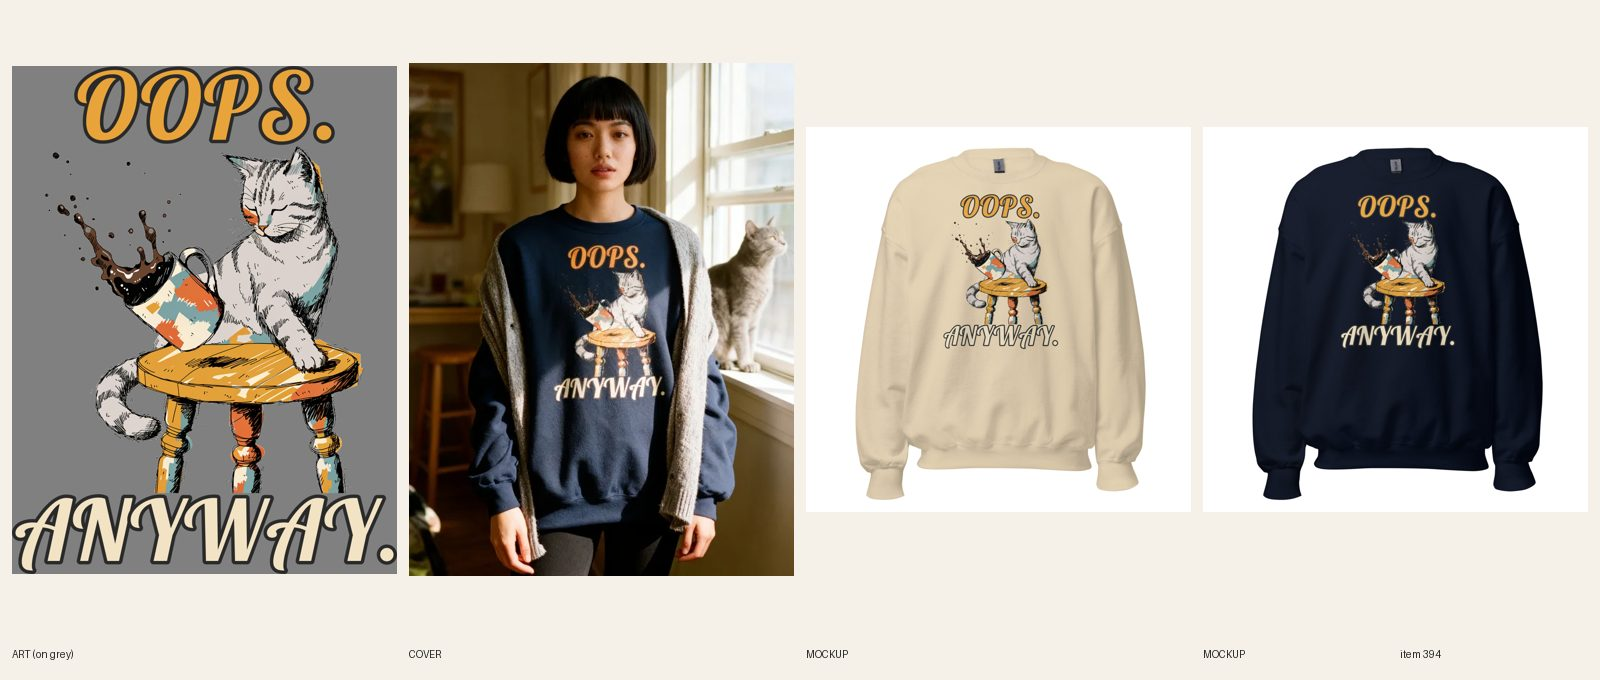
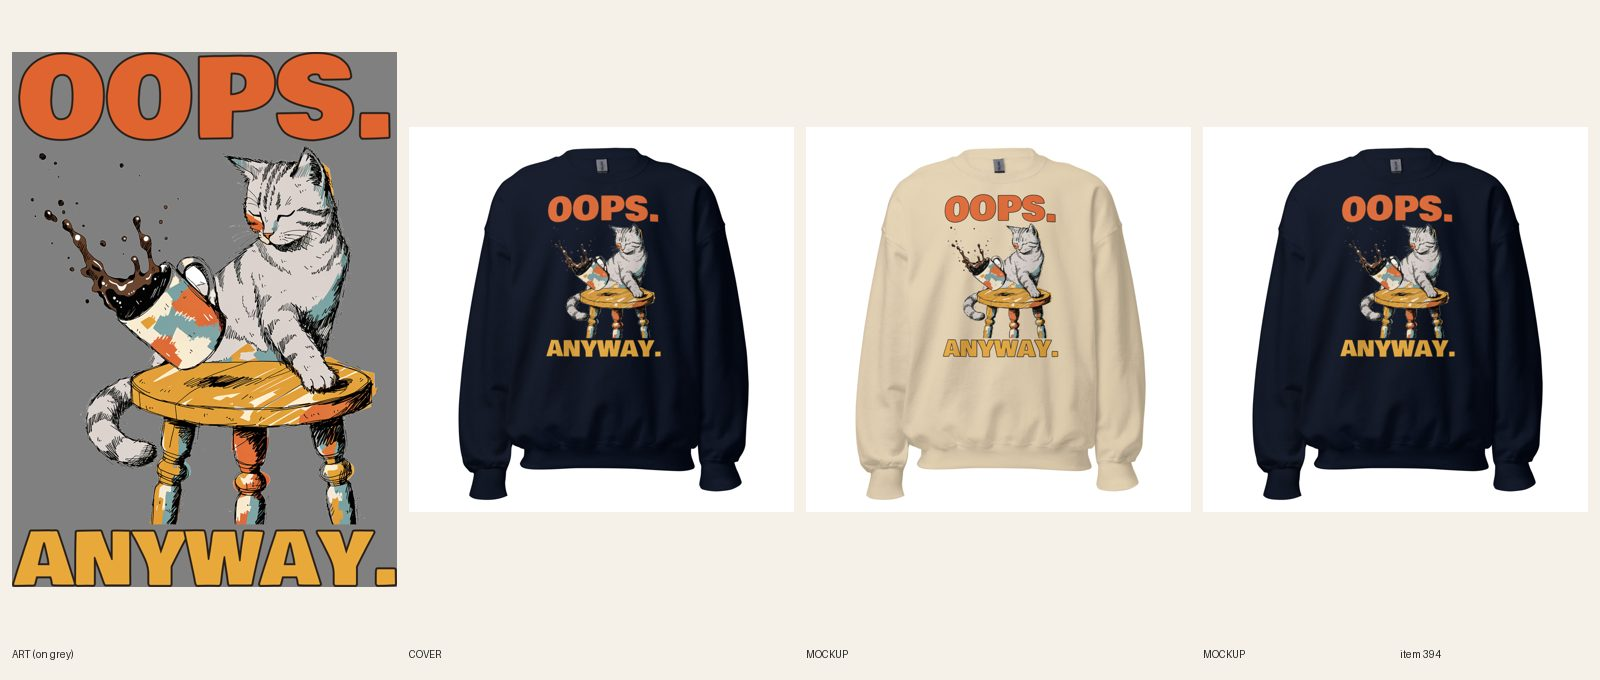
[C] review 394 Women's Cat Oops Anyway crewneck (type redo)
Claude-Session: https://claude.ai/code/session_019cA4EagCV6whQkJ5rZeVVv

Changed region(s): [[0.0, 0.0618, 0.5, 0.8647], [0.8125, 0.2779, 0.9062, 0.525], [0.5625, 0.2779, 0.6562, 0.525]]

diff --git a/docs/intake-log.md b/docs/intake-log.md
@@ -1,7 +1,7 @@
 RUNNING lane A since 2026-10-19 15:34 UTC
 RUNNING lane B since 2026-10-19 15:35 UTC
-RUNNING lane C since 2026-10-19 15:27 UTC
 2026-10-19 16:20 UTC — [D] Director run (RESUMED). Inbox: nothing new needing action (RESUME 15:00 and cropped-hoodie notes already in rulebook/reset file). LIVE 6 (cap): #577, #624, #245, #275, #273, #328, all quality-reset redos already ACTIVE, audit --handle PASS 0 warn each, side-by-side verdicts in their pipeline files; 4 model covers added to retired-covers.json (R6.11); #275 added to /guides/white-elephant-gifts/. Reviewed: #599 APPROVED, held for next run (cap); #385 REDO (R3.7.8/reset type bar: thin brush lettering). The other 37 at REVIEW were approved in earlier runs and wait for the 6-per-run cap (next: #599, then add-ons). Twin REDOs #244 #274 #276 #560 #548 told to port the Sam-approved sample prints (fal $0). Briefs: #695 NYE crewneck twin (new years sweatshirt 480/46, Dec 5,400), #696 dance mom crewneck twin (320/48), #697 Outdoorsy in Theory cropped hoodie (cropped pullover 4,400/34), #698 Slept Outside. Have Notes. camp hoodie (2,400/38), #699 nana hoodie twin (grandma hoodie 320/48). READY A 9 / B 12 / C 12: lane A is 3 short because every measured Christmas/New Year garment phrase I checked this run (about 40) is claimed or unmeasured. Monday R9/R10 check: no new Google/Merchant Center/OpenAI change since the backtrack doc; R8.7 FAQ line updated (FAQ rich results fully deprecated). Digest not due (midday sent 12:20). Lock released.
+2026-10-19 15:37 UTC — [C] Builder run: RESUMED; redid #394 Oops Anyway crewneck (type only: heavy full-width BowlbyOne lockup, same art, FW 1650, 12/12 synced, Sand/Navy mockups replaced in place, plain product shot). REVIEW. fal $0. 1 redo per run cap reached. Lock released.
 2026-10-19 15:05 UTC — [A] Builder run: quality reset still PAUSED; all 5 sample REDOs (#577 #624 #245 #275 #273) are at REVIEW, no lane A gift add-on briefs, covers on hold. Nothing built; no lock taken.
 2026-10-19 15:09 UTC — [B] Builder run: RESUMED; redid #328 Lone Wolf hoodie (type only: heavy full-width BowlbyOne lockup, same art, FW 1465, 12/12 synced, mockups replaced in place, plain product shot). REVIEW. fal $0. 1 redo per run cap reached. Lock released.
 2026-10-19 14:57 UTC — [C] Builder run: quality reset still PAUSED; all lane C gift add-on briefs (#677-#683, #687-#689, #692, #693) already at REVIEW; remaining lane C items are regular, not allowed; covers on hold. Nothing built; no lock taken.

diff --git a/docs/pipeline/394-cat-crew-oops-anyway.md b/docs/pipeline/394-cat-crew-oops-anyway.md
@@ -1,4 +1,4 @@
-status: BUILDING [C] 2026-10-19 15:27 UTC
+status: REVIEW
 shopify: gid://shopify/Product/15363409772848
 lane: C
 type: new
@@ -30,3 +30,4 @@ kd: 52
 - 2026-10-17 21:11 UTC builder [C]: REVIEW. Sync 12/12. Sheet docs/review/394.jpg. design-crops and variant-photo audit cover published products only: rerun when ACTIVE. Local cohesion audit not run (no spec file); copy checked by hand against the art. 
 - 2026-10-17 21:19 UTC director: LIVE. sheet seen: smug tabby and the falling mug, OOPS. / ANYWAY. reads on Sand and Navy; cover woman at home with a cat at the window. Added tag graphic-sweatshirts (it had no collection tag). ACTIVE + Online Store, Headless, Google & YouTube; audit --handle PASS.
 - 2026-10-18 17:22 UTC director: QUALITY RESET grade B (type only), REDO. The product stays ACTIVE (same handle, URL, title keyword). Keep the line "OOPS. / ANYWAY." and the art. 1. Type: Script headline only ~68% width, smaller than script second line; no heavy weight. 2. Quality reset type bar (docs/backlog/quality-reset.md, 'The new bar'): headline at least 90% of the art width, heavy, colors pulled from the art; second line at least 45% of the headline's height, never a thin script on a dark or mid garment; use the lettering as a shape (arch, stacked lockup, words breaking into the art), not a plain bar above and a script line below; no font used on more than 1 in 6 of the last 30 designs. 3. New print file means a new cover per R6.10 and a fresh review sheet (R7.7). While quality-reset.md says PAUSED, only lane A builds, and only the samples step 2 names.
+- 2026-10-19 15:36 UTC builder [C]: REDO type-only done. Same art cropped from the old print (designs/c394), new print designs/c394/spec.json: OOPS. and ANYWAY. in BowlbyOne at 90% width (orange #e0642f / mustard #e9a93a from the art, dark keyline), Printful file 1089619314, FW 1650 TOP 75, resynced 12/12. Sand and Navy front mockups replaced in place (back unchanged). Cover: plain product shot (handle in retired-covers.json). Phone-size read: both lines readable on Navy. Light file n/a (no cream fill). fal $0. design-crops not rerun (script too slow here). Audit PASS 0 warn. Sheet docs/review/394.jpg. Set REVIEW.
